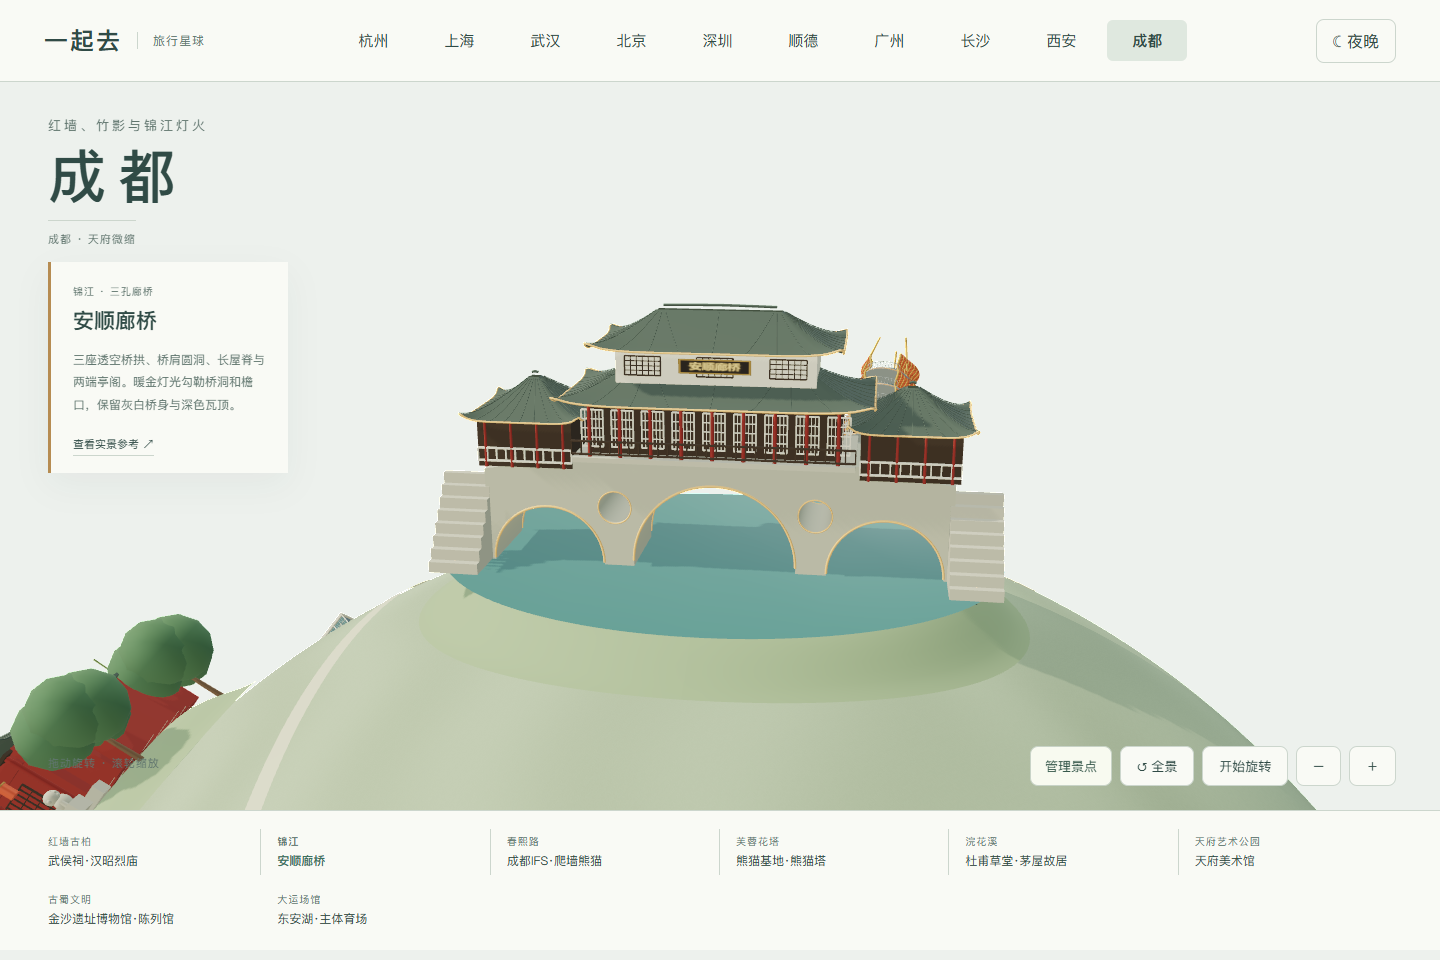
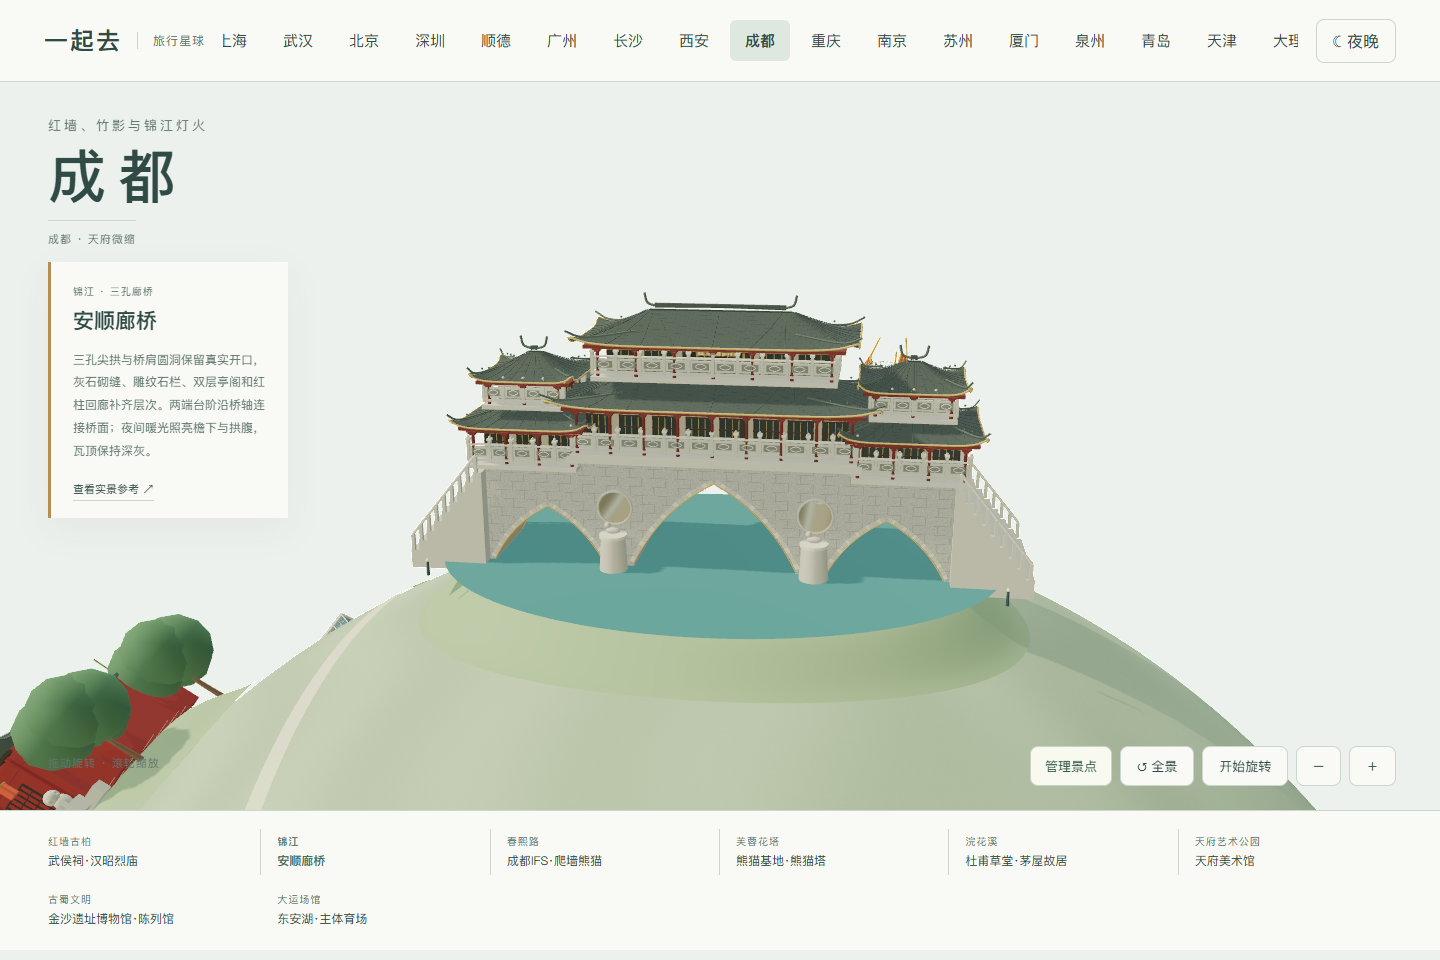
Refine Anshun pointed arches, stonework and double-eave galleries

diff --git a/web/chengdu-anshun.js b/web/chengdu-anshun.js
@@ -1,0 +1,87 @@
+import * as THREE from 'three';
+import {TAU,palette,site,pond,roof,plaque,glow,finish} from './chengdu-kit.js';
+
+function pointed(x,r,spring,rise,n=40){
+ const left=new THREE.QuadraticBezierCurve(new THREE.Vector2(x-r,spring),new THREE.Vector2(x-r*.65,spring+rise*.68),new THREE.Vector2(x,spring+rise));
+ const right=new THREE.QuadraticBezierCurve(new THREE.Vector2(x,spring+rise),new THREE.Vector2(x+r*.65,spring+rise*.68),new THREE.Vector2(x+r,spring));
+ return [...left.getPoints(n/2),...right.getPoints(n/2).slice(1)];
+}
+function stoneMaterial(k){
+ const m=k.mat('#a8aaa0',.96);m.userData.bridgeMasonry=true;
+ m.onBeforeCompile=s=>{s.vertexShader='varying vec3 vBridgeStone;\n'+s.vertexShader.replace('#include <begin_vertex>','#include <begin_vertex>\nvBridgeStone=position;');s.fragmentShader='varying vec3 vBridgeStone;\n'+s.fragmentShader.replace('#include <color_fragment>',`#include <color_fragment>
+ vec2 q=vBridgeStone.xy/vec2(.058,.022);float row=floor(q.y);q.x+=mod(row,2.)*.5;vec2 cell=fract(q);float mortar=max(1.-smoothstep(.025,.065,cell.x),1.-smoothstep(.035,.085,cell.y));float grain=fract(sin(dot(floor(vBridgeStone.xy*900.),vec2(39.3,17.7)))*43758.5453);diffuseColor.rgb*=mix(.88+.14*grain,.60,mortar*.48);`);};m.customProgramCacheKey=()=> 'anshun-stone-courses-v1';return m;
+}
+function railing(k,g,p,x,z,w,y){
+ const N=Math.max(3,Math.round(w/.055)),dx=w/N,shadow=k.mat('#7b8176',.95);
+ k.box(g,w,.006,.010,p.stone,x,y+.006,z);k.box(g,w,.004,.009,p.pale,x,y+.043,z);
+ for(let i=0;i<=N;i++){const xx=x-w/2+i*dx;k.box(g,.007,.054,.011,p.stone,xx,y+.028,z);k.box(g,.011,.005,.015,p.pale,xx,y+.056,z);k.ball(g,.0035,p.stone,xx,y+.061,z);}
+ for(let i=0;i<N;i++){const xx=x-w/2+(i+.5)*dx;k.box(g,dx-.008,.026,.006,p.stone,xx,y+.025,z);for(const side of [-1,1]){k.box(g,dx-.018,.016,.0008,shadow,xx,y+.025,z+side*.0035);k.line(g,[[xx-dx*.23,y+.025,z+side*.004],[xx,y+.031,z+side*.004],[xx+dx*.23,y+.025,z+side*.004],[xx,y+.019,z+side*.004]],.001,p.pale,true);}}
+}
+function window(k,g,p,x,y,z,w,h,m){
+ k.box(g,w,h,.003,m,x,y,z);
+ for(const sx of [-1,1])k.box(g,.0023,h+.005,.005,p.wood,x+sx*w/2,y,z+.002);
+ for(const yy of [-h/2,h*.12,h/2])k.box(g,w+.004,.0025,.005,p.wood,x,y+yy,z+.002);
+ for(const xx of [-.27,0,.27])k.box(g,.0015,h,.004,p.gold,x+xx*w,y,z+.002);
+}
+function detailedRoof(k,g,p,x,y,w,d,h,edge){
+ roof(k,g,w,d,h,y,p.tile,edge,x,0);const ridge=Math.max(.008,(w-d)*.42),rib=p.roofRib;
+ k.box(g,w*.91,.008,d*.89,p.red,x,y-.006,0);
+ // A tiled hip-gable roof with ceramic ridges and distinct upturned tips.
+
+ for(const side of [-1,1]){
+  k.line(g,[[x+side*ridge,y+h+.002,0],[x+side*(ridge+.018),y+h+.009,0],[x+side*(ridge+.025),y+h+.032,0]],.0028,rib);
+  for(const sz of [-1,1]){k.line(g,[[x+side*w*.28,y+.025,sz*d*.28],[x+side*w*.46,y+.018,sz*d*.46],[x+side*w*.51,y+.033,sz*d*.51]],.0024,rib);for(let j=0;j<3;j++)k.ball(g,.0024,rib,x+side*w*(.30+j*.05),y+.026,sz*d*(.30+j*.05));}
+ }
+ k.box(g,ridge*2,.006,.010,p.tile,x,y+h+.005,0);
+}
+function storey(k,g,p,{x=0,w,d,y,h,bays,edge,upper=false}){
+ const room=k.mat('#9f9b85',.93),glass=glow(k,'#3b443e',.20,1.1+y,.35);glass.userData.night.color.set('#ffe3af');
+ k.box(g,w+.028,.010,d+.07,p.stone,x,y,0);k.box(g,w*.90,h-.009,d*.65,room,x,y+h/2,0);
+ for(const side of [-1,1]){
+  const f=new THREE.Group();f.position.set(x,y,side*d*.327);if(side<0)f.rotation.y=Math.PI;g.add(f);
+  for(let i=0;i<bays;i++)window(k,f,p,(i-(bays-1)/2)*w/bays,h*.44,.001,w/bays*.73,h*.64,glass);
+  const z=side*(d/2+.018);railing(k,g,p,x,z,w+.025,y+.008);
+  for(let i=0;i<=bays;i++){const xx=x-w/2+i*w/bays;k.cyl(g,.0035,.0045,h-.003,p.red,xx,y+h/2,z,10);for(let j=0;j<3;j++){k.box(g,.012+j*.006,.003,.016+j*.006,p.red,xx,y+h-.013+j*.004,z);k.box(g,.005,.006,.008,p.gold,xx,y+h-.011+j*.004,z+.003);}}
+  k.box(g,w+.02,.007,.018,p.red,x,y+h-.004,z);k.box(g,w-.01,.002,.003,edge,x,y+h-.008,z+.003*side);
+ }
+ for(const side of [-1,1]){const f=new THREE.Group();f.position.set(x+side*w*.451,y,0);f.rotation.y=side*Math.PI/2;g.add(f);window(k,f,p,0,h*.44,.001,d*.48,h*.64,glass);}
+
+}
+export function anshun(k){
+ const g=new THREE.Group(),p=palette(k);site(k,g,.76,.58);pond(k,g,p,.69,.49);p.water.roughness=.75;
+ p.stone=k.mat('#b2b2a4',.96);p.pale=k.mat('#c1c1af',.94);p.tile=k.mat('#4c5750',.90);p.roofRib=k.mat('#59675c',.90);p.red=k.mat('#763c31',.88);p.gold=k.mat('#9d8b5e',.76,.12);
+ p.tile.onBeforeCompile=s=>{s.vertexShader='varying vec3 vAnshunTile;\n'+s.vertexShader.replace('#include <begin_vertex>','#include <begin_vertex>\nvAnshunTile=position;');s.fragmentShader='varying vec3 vAnshunTile;\n'+s.fragmentShader.replace('#include <color_fragment>',`#include <color_fragment>
+ vec2 q=vAnshunTile.xz/vec2(.010,.012);vec2 f=fract(q);float joint=max(1.-smoothstep(.02,.075,f.x),1.-smoothstep(.02,.075,f.y));diffuseColor.rgb*=1.-.15*joint;`);};p.tile.customProgramCacheKey=()=> 'anshun-small-roof-tiles-v1';p.tile.userData.night={color:new THREE.Color('#ffd896'),intensity:.035};
+ const stair=k.mat('#b2b2a4',.96);stair.userData.anshunSteps=true;
+ const s=new THREE.Shape();s.moveTo(-.56,0);s.lineTo(.56,0);s.lineTo(.56,.25);s.lineTo(.34,.29);s.lineTo(-.34,.29);s.lineTo(-.56,.25);s.closePath();
+ const arches=[{x:0,r:.195,spring:.028,rise:.207},{x:-.405,r:.137,spring:.023,rise:.139},{x:.405,r:.137,spring:.023,rise:.139}];
+ const edge=glow(k,'#bda56a',.72,.5,.36),archLight=glow(k,'#a99f7d',.40);edge.userData.night.color.set('#ffcb72');archLight.userData.night.color.set('#ffd69a');
+ for(const a of arches){const h=new THREE.Path(),pts=pointed(a.x,a.r,a.spring,a.rise);h.moveTo(a.x-a.r,.001);pts.forEach(p=>h.lineTo(p.x,p.y));h.lineTo(a.x+a.r,.001);h.closePath();s.holes.push(h);
+  for(const z of [-.108,.108]){
+   for(let i=0;i<pts.length-1;i++){const p1=pts[i],p2=pts[i+1],t=p2.clone().sub(p1).normalize(),n=new THREE.Vector2(-t.y,t.x),gap=.00065,inner1=p1.clone().addScaledVector(t,gap),inner2=p2.clone().addScaledVector(t,-gap);const band=new THREE.Shape([inner1,inner2,inner2.clone().addScaledVector(n,.012),inner1.clone().addScaledVector(n,.012)]);k.mesh(g,new THREE.ShapeGeometry(band),i%3?p.stone:p.pale,0,0,z);}
+   k.line(g,pts.map(v=>[v.x,v.y,z]),.0018,edge);
+  }
+  // Warm soffit illumination occupies the arch surface rather than a floating line.
+  const v=[],ind=[];for(const pt of pts)v.push(pt.x,pt.y-.0005,-.103,pt.x,pt.y-.0005,.103);for(let i=0;i<pts.length-1;i++)ind.push(i*2,i*2+1,i*2+2,i*2+1,i*2+3,i*2+2);const geo=new THREE.BufferGeometry();geo.setAttribute('position',new THREE.Float32BufferAttribute(v,3));geo.setIndex(ind);geo.computeVertexNormals();archLight.side=THREE.DoubleSide;k.mesh(g,geo,archLight);
+ }
+ for(const x of [-.24,.24]){const h=new THREE.Path();h.absarc(x,.166,.039,0,TAU,true);s.holes.push(h);for(const z of [-.108,.108]){k.mesh(g,new THREE.TorusGeometry(.041,.0035,6,48),p.stone,x,.166,z);k.mesh(g,new THREE.TorusGeometry(.0392,.0012,6,48),edge,x,.166,z+.001*Math.sign(z));}}
+ p.stone.side=THREE.DoubleSide;p.pale.side=THREE.DoubleSide;
+ for(const x of [-.24,.24]){const o=k.mesh(g,new THREE.CylinderGeometry(.0388,.0388,.208,48,1,true),archLight,x,.166,0);o.rotation.x=Math.PI/2;}
+ k.mesh(g,new THREE.ExtrudeGeometry(s,{depth:.21,bevelEnabled:false,curveSegments:40}),stoneMaterial(k),0,0,-.105);
+ for(const x of [-.24,.24])for(const z of [-.13,.13]){
+  k.cyl(g,.030,.035,.083,p.stone,x,.059,z,12);k.cyl(g,.034,.034,.007,p.pale,x,.104,z,12);const body=k.ball(g,.011,p.stone,x,.116,z);body.scale.set(1.6,.7,.72);k.ball(g,.0075,p.stone,x-.013,.129,z);k.cyl(g,.002,.003,.013,p.stone,x-.010,.121,z,6);
+ }
+ k.box(g,.69,.013,.30,p.stone,0,.292,0);
+ storey(k,g,p,{w:.64,d:.23,y:.302,h:.112,bays:8,edge});detailedRoof(k,g,p,0,.422,.77,.35,.073,edge);
+ storey(k,g,p,{w:.54,d:.19,y:.484,h:.077,bays:6,edge,upper:true});detailedRoof(k,g,p,0,.565,.66,.29,.071,edge);
+ plaque(k,g,'安顺廊桥',.135,.029,0,.540,.066);
+ for(const x of [-.455,.455]){
+  storey(k,g,p,{x,w:.24,d:.22,y:.266,h:.089,bays:3,edge});detailedRoof(k,g,p,x,.363,.33,.32,.060,edge);
+  storey(k,g,p,{x,w:.17,d:.16,y:.405,h:.061,bays:2,edge,upper:true});detailedRoof(k,g,p,x,.468,.25,.24,.058,edge);
+ }
+ for(const side of [-1,1]){
+  for(let i=0;i<9;i++){const h=.021+(i+1)/9*.229,x=side*(.735-i*.021);k.box(g,.021,h,.28,stair,x,h/2,0);for(const sz of [-1,1]){k.box(g,.008,.040,.009,p.stone,x,h+.021,sz*.145);k.ball(g,.003,p.pale,x,h+.043,sz*.145);}}
+  for(const sz of [-1,1])k.beam(g,[side*.735,.089,sz*.145],[side*.567,.293,sz*.145],.004,p.pale);
+ }
+ return finish(k,g,{lamps:[[-.68,-.20],[.68,-.20],[-.68,.20],[.68,.20]]});
+}

diff --git a/web/chengdu-landmarks.js b/web/chengdu-landmarks.js
@@ -3,7 +3,7 @@ import {ifs,pandaTower,tianfu} from './chengdu-modern.js';
 import {jinsha,dongan} from './chengdu-culture.js';
 export const LANDMARKS=[
  {id:'wuhou',name:'武侯祠·汉昭烈庙',area:'红墙古柏 · 入口庭院',x:-.96,z:.86,height:.39,distance:2.6,view:[.24,.68,1.8],description:'灰瓦五开间门屋、红墙、石狮和竹影小径。根据入口与林荫实拍制作，呈现武侯祠的前庭片段，不将它冒充整个祠庙建筑群。',source:'https://news.cri.cn/20230723/399db06e-9fb9-6b3b-66b0-938a43027c0f.html'},
- {id:'anshun',name:'安顺廊桥',area:'锦江 · 三孔廊桥',x:1.01,z:.87,height:.65,distance:2.8,view:[.25,.50,1.8],description:'三座透空桥拱、桥肩圆洞、长屋脊与两端亭阁。暖金灯光勾勒桥洞和檐口，保留灰白桥身与深色瓦顶。',source:'https://unsplash.com/photos/photography-of-building-and-bridge-during-nighttime-ogCzbpkxdK4'},
+ {id:'anshun',name:'安顺廊桥',area:'锦江 · 三孔廊桥',x:1.01,z:.87,height:.65,distance:2.8,view:[.25,.50,1.8],description:'三孔尖拱与桥肩圆洞保留真实开口，灰石砌缝、雕纹石栏、双层亭阁和红柱回廊补齐层次。两端台阶沿桥轴连接桥面；夜间暖光照亮檐下与拱腹，瓦顶保持深灰。',source:'https://unsplash.com/photos/photography-of-building-and-bridge-during-nighttime-ogCzbpkxdK4'},
  {id:'ifs',name:'成都IFS·爬墙熊猫',area:'春熙路 · I AM HERE',x:-1.04,z:-.87,height:1.14,distance:2.9,view:[.25,.65,1.8],description:'黑白熊猫攀在商场外墙，前爪越过屋顶，后腿悬在立面上；玻璃塔楼和暖色店面保留商业街层次。雕塑原作由 Lawrence Argent 创作，此处为几何缩微表达。',source:'https://www.hkcd.com.hk/content_p/2024-07/01/content_173280.html'},
  {id:'pandaTower',name:'熊猫基地·熊猫塔',area:'芙蓉花塔 · 铜色外肋',x:1.09,z:-.87,height:1.24,distance:2.8,view:[.26,.69,1.8],description:'十一层逐级收窄的观景平台、铜色花瓣外肋和高起的三片尖梢。正面留出透空切口，可以看到内层平台、扶手与支撑。',source:'https://www.gooood.cn/panda-tower-in-chengdu-research-base-of-giant-panda-breeding-udg-atelier-alpha.htm'},
  {id:'dufu',name:'杜甫草堂·茅屋故居',area:'浣花溪 · 竹林茅屋',x:-1.00,z:.88,hemisphere:-1,height:.41,distance:2.6,view:[.28,.63,1.8],description:'低矮土墙、木格门窗、厚茅草屋面和竹林水院。呈现草堂内茅屋故居这一处景观，避免将整个博物馆简化成一栋古宅。',source:'https://you.ctrip.com/sight/chengdu104/4226.html'},

diff --git a/web/chengdu-heritage.js b/web/chengdu-heritage.js
@@ -40,21 +40,4 @@ export function dufu(k){
  return finish(k,g,{lamps:[[-.30,.10],[.30,.10]],visitors:[[-.20,.10],[.23,.08]]});
 }
 
-export function anshun(k){
- const g=new THREE.Group(),p=palette(k);site(k,g,.76,.58);pond(k,g,p,.69,.49);p.water.roughness=.28;
- const s=new THREE.Shape();s.moveTo(-.56,0);s.lineTo(.56,0);s.lineTo(.56,.25);s.lineTo(.34,.29);s.lineTo(-.34,.29);s.lineTo(-.56,.25);s.closePath();
- const arches=[{x:0,r:.195,spring:.034},{x:-.405,r:.137,spring:.025},{x:.405,r:.137,spring:.025}];
- for(const {x,r,spring}of arches){const h=new THREE.Path();h.moveTo(x-r,.001);h.lineTo(x-r,spring);h.absarc(x,spring,r,Math.PI,0,true);h.lineTo(x+r,.001);h.closePath();s.holes.push(h);}
- for(const x of [-.24,.24]){const h=new THREE.Path();h.absarc(x,.166,.039,0,TAU,true);s.holes.push(h);}
- const stone=k.mat('#b2b4a1',.94);stone.userData.bridgeMasonry=true;k.mesh(g,new THREE.ExtrudeGeometry(s,{depth:.21,bevelEnabled:false,curveSegments:40}),stone,0,0,-.105);
- const edge=glow(k,'#efc27d',1.05,.5,.45);
- for(const z of [-.108,.108]){for(const {x,r,spring}of arches)k.line(g,Array.from({length:41},(_,i)=>[x+r*Math.cos(i/40*Math.PI),spring+r*Math.sin(i/40*Math.PI),z]),.003,edge);for(const x of [-.24,.24])k.line(g,Array.from({length:40},(_,i)=>[x+.04*Math.sin(i/40*TAU),.166+.04*Math.cos(i/40*TAU),z]),.002,edge,true);}
- k.box(g,.66,.012,.29,p.stone,0,.293,0);k.box(g,.59,.125,.20,p.wood,0,.36,0);
- for(const side of [-1,1]){for(let i=0;i<9;i++){const x=-.29+i*.58/8;k.cyl(g,.004,.005,.13,p.red,x,.36,side*.132,8);lattice(k,g,x,.36,side*.102,.052,.089,p.pale);}balcony(k,g,0,side*.145,.66,.299,p.wood);}
- roof(k,g,.74,.34,.10,.428,p.tile,edge);
- k.box(g,.47,.083,.17,p.pale,0,.505,0);for(const z of [-.087,.087])for(const x of [-.17,0,.17])lattice(k,g,x,.51,z,.085,.045,p.wood);
- roof(k,g,.59,.27,.09,.55,p.tile,edge);plaque(k,g,'安顺廊桥',.17,.035,0,.512,.091);
- for(const x of [-.455,.455]){k.box(g,.23,.11,.22,p.wood,x,.314,0);for(const z of [-.113,.113]){for(let i=0;i<4;i++)k.cyl(g,.003,.004,.11,p.red,x-.095+i*.19/3,.314,z,8);balcony(k,g,x,z,.23,.265,p.pale);}roof(k,g,.29,.29,.092,.377,p.tile,edge,x,0);}
- for(const x of [-.61,.61]){k.box(g,.11,.02,.34,p.stone,x,.03,0);steps(k,g,p,x,.21,.12,8,.21,.15);}
- return finish(k,g,{lamps:[[-.61,-.20],[.61,-.20],[-.61,.20],[.61,.20]]});
-}
+export {anshun} from './chengdu-anshun.js';

diff --git a/README.md b/README.md
@@ -1,6 +1,6 @@
 # 一起去 · Travel Planet
 
-用可旋转的 3D 城市星球发现景点，再和朋友一起决定怎么旅行。当前版本 **0.55.14**，支持桌面和手机网页。
+用可旋转的 3D 城市星球发现景点，再和朋友一起决定怎么旅行。当前版本 **0.55.15**，支持桌面和手机网页。
 
 **[上海旅行 · 在线体验](https://43.139.249.151/travel/shanghai-trip.html)** · **[杭州旅行](https://43.139.249.151/travel/)** · **[武汉旅行](https://43.139.249.151/travel/wuhan-trip.html)** · **[武汉纯地图](https://43.139.249.151/travel/wuhan.html)** · **[上海纯地图](https://43.139.249.151/travel/shanghai.html)** · **[北京地图](https://43.139.249.151/travel/beijing.html)** · **[深圳地图](https://43.139.249.151/travel/shenzhen.html)** · **[顺德地图](https://43.139.249.151/travel/shunde.html)** · **[广州地图](https://43.139.249.151/travel/guangzhou.html)** · **[长沙地图](https://43.139.249.151/travel/changsha.html)** · **[西安地图](https://43.139.249.151/travel/xian.html)** · **[成都地图](https://43.139.249.151/travel/chengdu.html)** · **[重庆地图](https://43.139.249.151/travel/chongqing.html)** · **[南京地图](https://43.139.249.151/travel/nanjing.html)** · **[苏州地图](https://43.139.249.151/travel/suzhou.html)** · **[厦门地图](https://43.139.249.151/travel/xiamen.html)** · **[泉州地图](https://43.139.249.151/travel/quanzhou.html)** · **[青岛地图](https://43.139.249.151/travel/qingdao.html)** · **[天津地图](https://43.139.249.151/travel/tianjin.html)** · **[大理地图](https://43.139.249.151/travel/dali.html)** · **[桂林地图](https://43.139.249.151/travel/guilin.html)** · **[三亚地图](https://43.139.249.151/travel/sanya.html)** · **[香港地图](https://43.139.249.151/travel/hongkong.html)** · **[澳门地图](https://43.139.249.151/travel/macau.html)**
 

diff --git a/docs/TESTING.md b/docs/TESTING.md
@@ -301,3 +301,10 @@ python tools/travel-flow-check.py
 334 项完整测试、339 项 JavaScript 语法检查通过。新增测试对两座扶梯的真实台阶做射线检查，确认台阶逐级升高、中央底层通道透空，以及桁架日夜颜色切换正确。
 
 2026-11-04 09:21—09:22 两轮隔离预览修正桁架方向与窗框密度；09:26—09:28 正式日夜正侧背、动态、320 画面与 390 管理面板直接核看。完整浏览器覆盖十组景点、整组保存恢复、触控键盘、多宽度及 WebGL 恢复，异常与业务写入均为 0。手机为浏览器模拟。
+
+
+## 0.55.15 成都安顺廊桥
+
+335 项完整测试、340 项 JavaScript 语法检查通过。新增射线检查覆盖包含灯光衬面的完整桥洞和圆洞，以及沿桥轴逐级升高的两端台阶；原八组落地、间距、材质恢复与整组释放测试继续通过。
+
+2026-11-04 09:32—09:34 两轮隔离预览修正台阶方向和屋面悬空线；09:38—09:39 正式核看日夜正侧背、320 画面与 390 管理面板。完整浏览器覆盖八组景点、整组保存恢复、触控键盘、多宽度和 WebGL 恢复，异常与业务写入均为 0。手机为浏览器模拟。
